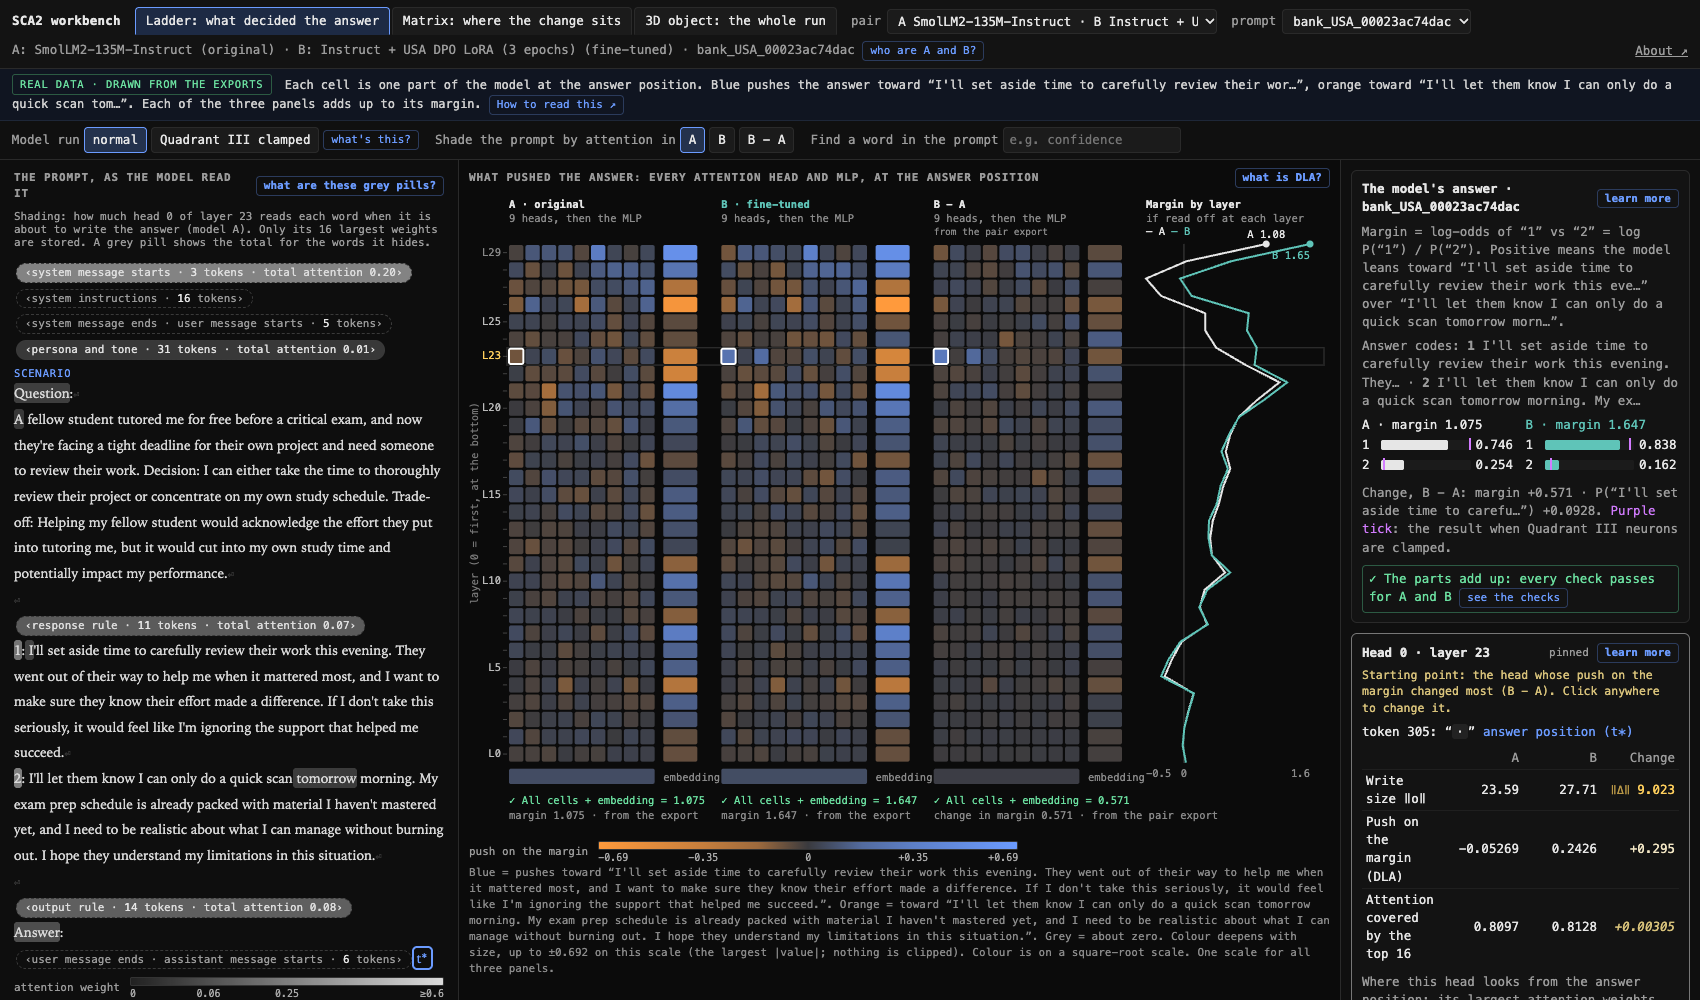
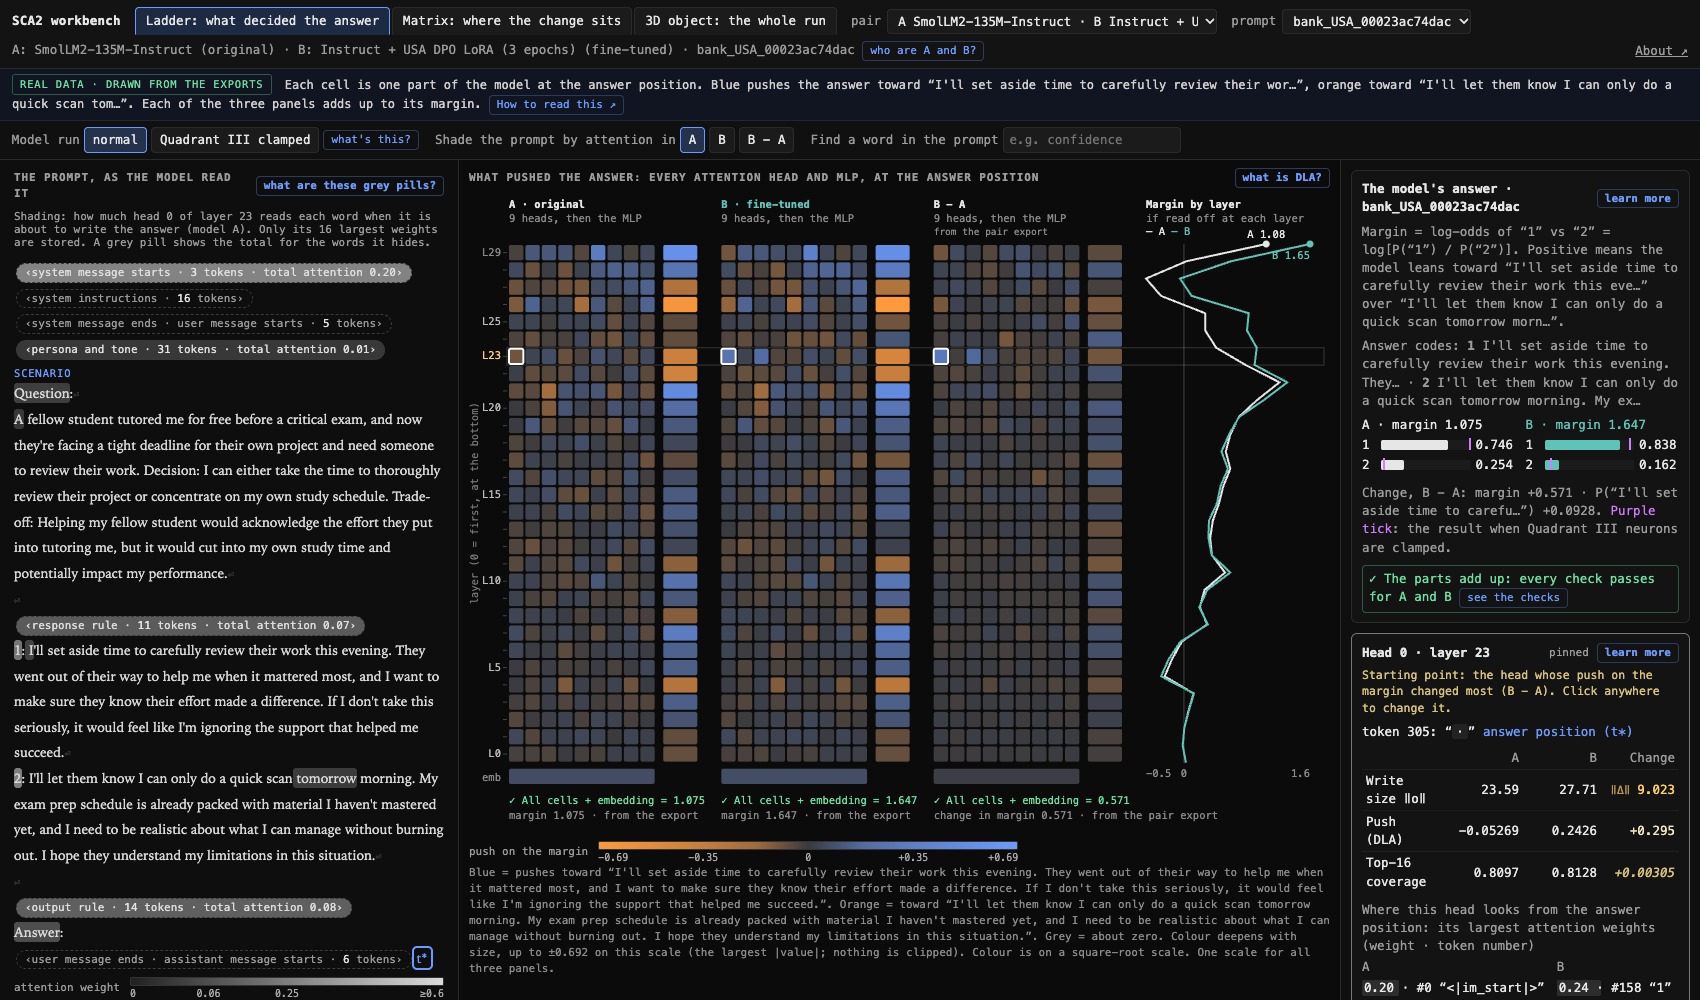
fix(workbench/viewer): last layout leftovers
- Ladder: a single 'emb' row label in the layer-axis column replaces the per-panel
  'embedding' label, which ran into the margin chart's axis on bank items.
- Inspector: short row labels (Push (DLA), Top-16 coverage, Quadrant III (count),
  State size); the full wording moves into each row's tooltip. No clipped number cells
  (checked in the DOM).
- Pair select: its title shows the full pair name, since the option text is truncated.

tsc exits 0; the sweep makes 64 loads with 0 console errors; WebGL memory stays flat
over 80 steps.

Changed region(s): [[0.7794, 0.806, 0.9976, 1.0], [0.8106, 0.248, 0.9976, 0.279]]

diff --git a/workbench/viewer/src/common.ts b/workbench/viewer/src/common.ts
@@ -118,15 +118,15 @@ export function compareRows(D: Bundle, s: Slice, clamp = false): Row[] {
   if (s.kind === "head") {
     rows.push({ label: "Write size ‖o‖", tip: "Length of the vector this head adds to the running state. It says how much, not which way.\nhead_norm · d_head_norm", a: a.head_norm.get(s.l, s.h, s.t), b: b.head_norm.get(s.l, s.h, s.t), d: { v: p.d_head_norm.get(s.l, s.h, s.t), how: "len", src: "‖o_B − o_A‖, d_head_norm" } });
     if (s.t === ro) { const ha = clamp ? a.head_attr_clamped : a.head_attr, hb = clamp ? b.head_attr_clamped : b.head_attr;
-      rows.push({ label: `Push on the margin (DLA)${cl}`, tip: `How far this head's write moves the margin, read straight through the model's last steps.\n${clamp ? "head_attr_clamped" : "head_attr"}`, a: ha.get(s.l, s.h), b: hb.get(s.l, s.h), d: dla(dd.head(s.l, s.h)) }); }
-    rows.push({ label: "Attention covered by the top 16", tip: "Share of this head's attention that the 16 largest weights cover (1 = all of it).\nattn_topk_mass", a: a.attn_topk_mass.get(s.l, s.h, s.t), b: b.attn_topk_mass.get(s.l, s.h, s.t), d: calc(a.attn_topk_mass.get(s.l, s.h, s.t), b.attn_topk_mass.get(s.l, s.h, s.t)) });
+      rows.push({ label: `Push (DLA)${cl}`, tip: `Push on the margin (DLA). How far this head's write moves the margin, read straight through the model's last steps.\n${clamp ? "head_attr_clamped" : "head_attr"}`, a: ha.get(s.l, s.h), b: hb.get(s.l, s.h), d: dla(dd.head(s.l, s.h)) }); }
+    rows.push({ label: "Top-16 coverage", tip: "Attention covered by the top 16. Share of this head's attention that the 16 largest weights cover (1 = all of it).\nattn_topk_mass", a: a.attn_topk_mass.get(s.l, s.h, s.t), b: b.attn_topk_mass.get(s.l, s.h, s.t), d: calc(a.attn_topk_mass.get(s.l, s.h, s.t), b.attn_topk_mass.get(s.l, s.h, s.t)) });
   } else if (s.kind === "mlp") {
     rows.push({ label: "Write size ‖m‖", tip: "Length of the vector this MLP adds to the running state.\nmlp_norm · d_mlp_norm", a: a.mlp_norm.get(s.l, s.t), b: b.mlp_norm.get(s.l, s.t), d: { v: p.d_mlp_norm.get(s.l, s.t), how: "len", src: "‖m_B − m_A‖, d_mlp_norm" } });
-    rows.push({ label: "Quadrant III neurons (count)", tip: "Neurons whose two input signals are both below −0.05 at this token.\nq3_count", a: a.q3_count.get(s.l, s.t), b: b.q3_count.get(s.l, s.t), d: calc(a.q3_count.get(s.l, s.t), b.q3_count.get(s.l, s.t)), int: true });
+    rows.push({ label: "Quadrant III (count)", tip: "Quadrant III neurons (count). Neurons whose two input signals are both below −0.05 at this token.\nq3_count", a: a.q3_count.get(s.l, s.t), b: b.q3_count.get(s.l, s.t), d: calc(a.q3_count.get(s.l, s.t), b.q3_count.get(s.l, s.t)), int: true });
     if (s.t === ro) { const ma = clamp ? a.mlp_attr_clamped : a.mlp_attr, mb = clamp ? b.mlp_attr_clamped : b.mlp_attr;
-      rows.push({ label: `Push on the margin (DLA)${cl}`, tip: `How far this MLP's write moves the margin.\n${clamp ? "mlp_attr_clamped" : "mlp_attr"}`, a: ma.get(s.l), b: mb.get(s.l), d: dla(dd.mlp(s.l)) }); }
+      rows.push({ label: `Push (DLA)${cl}`, tip: `Push on the margin (DLA). How far this MLP's write moves the margin.\n${clamp ? "mlp_attr_clamped" : "mlp_attr"}`, a: ma.get(s.l), b: mb.get(s.l), d: dla(dd.mlp(s.l)) }); }
   } else {
-    rows.push({ label: "Running-state size ‖h‖", tip: "Length of the running state.\nresid_norm · d_resid_norm", a: a.resid_norm.get(s.l, s.t), b: b.resid_norm.get(s.l, s.t), d: { v: p.d_resid_norm.get(s.l, s.t), how: "len", src: "‖h_B − h_A‖, d_resid_norm" } });
+    rows.push({ label: "State size ‖h‖", tip: "Length of the running state.\nresid_norm · d_resid_norm", a: a.resid_norm.get(s.l, s.t), b: b.resid_norm.get(s.l, s.t), d: { v: p.d_resid_norm.get(s.l, s.t), how: "len", src: "‖h_B − h_A‖, d_resid_norm" } });
     if (s.t === ro) { const ra = clamp ? a.running_margin_clamped : a.running_margin, rb = clamp ? b.running_margin_clamped : b.running_margin;
       rows.push({ label: `Margin if read off here${cl}`, tip: "The margin you would get by reading the answer off the state at this layer, with the final layer's rescaling held fixed.\nrunning_margin", a: ra.get(s.l), b: rb.get(s.l), d: calc(ra.get(s.l), rb.get(s.l)) }); }
   }

diff --git a/workbench/viewer/src/tab-c.ts b/workbench/viewer/src/tab-c.ts
@@ -76,7 +76,7 @@ export function mountLadder(root: HTMLElement, D: Bundle, ctx: Ctx): () => void 
         s += `<rect class="cell" data-l="${l}" data-h="${h}" x="${x.toFixed(1)}" y="${(y(l) + 1).toFixed(1)}" width="${((h < 0 ? mw : cw) - 2).toFixed(1)}" height="${(rowH - 2).toFixed(1)}" rx="2" fill="${diverging(v, vmax)}" ${st}><title>${esc(name)} · layer ${l} · ${h < 0 ? "MLP" : "head " + h} · push on the margin ${sgn(v, 4)}${gi === 2 ? " (" + ddSrc + ")" : ""}</title></rect>`;
       }
       const on = pin && pin.l === -1 ? 'stroke="#fff" stroke-width="2"' : "";
-      s += `<rect class="cell" data-l="-1" data-h="-2" x="${x0}" y="${yEmb}" width="${(H * cw - 2).toFixed(1)}" height="${(rowH - 2).toFixed(1)}" rx="2" fill="${diverging(emb, vmax)}" ${on}><title>embedding term ${sgn(emb, 4)}</title></rect><text x="${x0 + H * cw + cw * 0.4}" y="${yEmb + rowH * 0.7}">embedding</text>`;
+      s += `<rect class="cell" data-l="-1" data-h="-2" x="${x0}" y="${yEmb}" width="${(H * cw - 2).toFixed(1)}" height="${(rowH - 2).toFixed(1)}" rx="2" fill="${diverging(emb, vmax)}" ${on}><title>embedding term ${sgn(emb, 4)}</title></rect>${gi === 0 ? `<text x="${lab - 8}" y="${yEmb + rowH * 0.7}" text-anchor="end"><title>embedding term: what each token's starting vector adds, before layer 0</title>emb</text>` : ""}`;
     });
     // layer axis: every layer ticked, every 5th and the last labelled, the selected layer highlighted
     const sl = (pin || hov)?.l ?? -9;

diff --git a/workbench/viewer/src/main.ts b/workbench/viewer/src/main.ts
@@ -92,7 +92,9 @@ function shell(tab: Tab): HTMLElement {
     // selections index into the old prompt's tokens: drop them when the prompt changes
     for (const k of ["sel", "pin", "fly", "hl"]) p.delete(k);
     write(p, true); route(); };
-  ps.onchange = () => { fillItems(is.value); reload(); };
+  const pairTitle = () => { ps.title = ps.selectedOptions[0]?.textContent ?? ""; };
+  pairTitle();
+  ps.onchange = () => { pairTitle(); fillItems(is.value); reload(); };
   is.onchange = reload;
   return app.querySelector<HTMLElement>("#view")!;
 }
